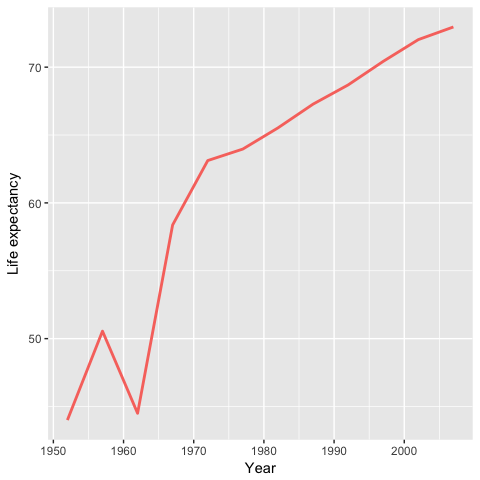
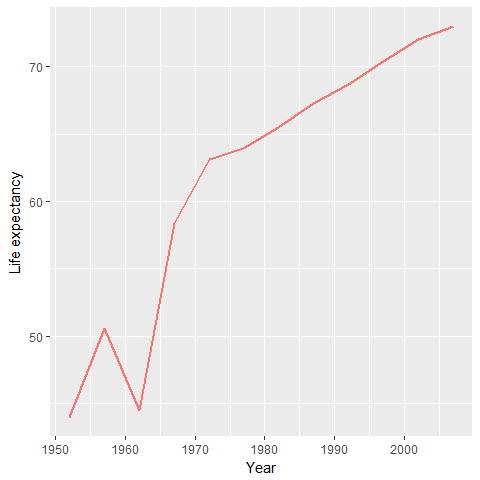
Edit exercise 5 - remove changed theme

diff --git a/intro_to_ggplot/HLC_intro_to_ggplot.md b/intro_to_ggplot/HLC_intro_to_ggplot.md
@@ -29,18 +29,18 @@ In this class, we'll use a dataset provided by the Gapminder Foundation in R. Th
 
 ``` r
 library(gapminder)
-## Warning: package 'gapminder' was built under R version 3.4.2
+## Warning: package 'gapminder' was built under R version 3.4.4
 
 head(gapminder)
 ## # A tibble: 6 x 6
-##   country     continent  year lifeExp      pop gdpPercap
-##   <fct>       <fct>     <int>   <dbl>    <int>     <dbl>
-## 1 Afghanistan Asia       1952    28.8  8425333      779.
-## 2 Afghanistan Asia       1957    30.3  9240934      821.
-## 3 Afghanistan Asia       1962    32.0 10267083      853.
-## 4 Afghanistan Asia       1967    34.0 11537966      836.
-## 5 Afghanistan Asia       1972    36.1 13079460      740.
-## 6 Afghanistan Asia       1977    38.4 14880372      786.
+##       country continent  year lifeExp      pop gdpPercap
+##        <fctr>    <fctr> <int>   <dbl>    <int>     <dbl>
+## 1 Afghanistan      Asia  1952  28.801  8425333  779.4453
+## 2 Afghanistan      Asia  1957  30.332  9240934  820.8530
+## 3 Afghanistan      Asia  1962  31.997 10267083  853.1007
+## 4 Afghanistan      Asia  1967  34.020 11537966  836.1971
+## 5 Afghanistan      Asia  1972  36.088 13079460  739.9811
+## 6 Afghanistan      Asia  1977  38.438 14880372  786.1134
 ```
 
 You'll notice that the Gapminder dataset is called a "tibble". This is similar to a data frame, but is the format used in the tidyverse. The two main differences are in printing and subsetting. The default `print` of a tibble always contains only ten rows and the class of the data is shown underneath the name of each column (similar to `str`). When subsetting a tibble, using `[` returns another tibble, and `[[` always returns a vector.
@@ -78,17 +78,17 @@ Try changing the figure height and figure width values to get a sense for how th
 # ggplot loads automatically with the tidyverse:
 library(tidyverse)
 ## Warning: package 'tidyverse' was built under R version 3.4.2
-## ── Attaching packages ────────────────────────────────── tidyverse 1.2.1 ──
-## ✔ tibble  1.4.2     ✔ purrr   0.2.4
-## ✔ tidyr   0.7.2     ✔ stringr 1.2.0
-## ✔ readr   1.1.1     ✔ forcats 0.3.0
-## Warning: package 'tibble' was built under R version 3.4.3
+## -- Attaching packages ----------------------------------------------------------------------------------------- tidyverse 1.2.1 --
+## v tibble  1.3.4     v purrr   0.2.4
+## v tidyr   0.7.2     v stringr 1.2.0
+## v readr   1.1.1     v forcats 0.2.0
 ## Warning: package 'tidyr' was built under R version 3.4.2
+## Warning: package 'readr' was built under R version 3.4.2
 ## Warning: package 'purrr' was built under R version 3.4.2
-## Warning: package 'forcats' was built under R version 3.4.3
-## ── Conflicts ───────────────────────────────────── tidyverse_conflicts() ──
-## ✖ dplyr::filter() masks stats::filter()
-## ✖ dplyr::lag()    masks stats::lag()
+## Warning: package 'forcats' was built under R version 3.4.2
+## -- Conflicts -------------------------------------------------------------------------------------------- tidyverse_conflicts() --
+## x dplyr::filter() masks stats::filter()
+## x dplyr::lag()    masks stats::lag()
 
 # or it can be loaded on its own:
 library(ggplot2)
@@ -244,7 +244,7 @@ ggplot(filter(gapminder, year > 1995), aes(x = gdpPercap, y = lifeExp, color = c
 
 To check your understanding of `ggplot` and topics covered in this lesson, replicate the plot below of data from the Gapminder dataset. Make use of your resources in this document, the `ggplot2` CRAN documentation, R for Data Science, and Google.
 
-Hint: this plot uses a subset of the Gapminder data, a linear trendline, and a theme other than the default.
+Hint: this plot uses a subset of the Gapminder data and a linear trendline.
 
 ![](HLC_intro_to_ggplot_files/figure-markdown_github/gapminder%20plot-1.png)
 
